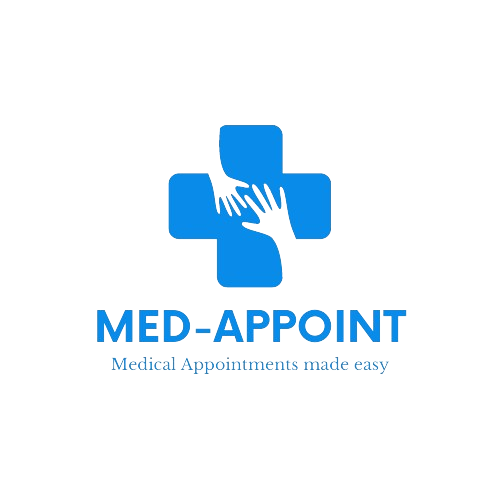
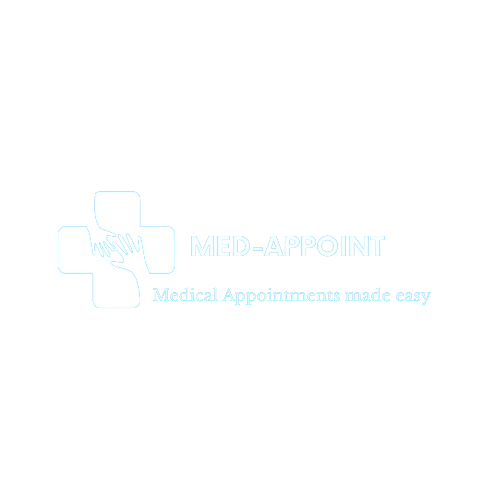
fix:medappoint from medicappoint

Changed region(s): [[0.18, 0.24, 0.87, 0.69], [0.21, 0.72, 0.78, 0.75], [0.18, 0.45, 0.3, 0.54]]

diff --git a/src/components/provider/Header.tsx b/src/components/provider/Header.tsx
@@ -19,7 +19,7 @@ function Header() {
   return (
     <div className="pb-[2rem] header-bg-opacity-provider bg-cover bg-center header h-max bg-black-opacity-10 space-y-3 flex flex-col max-md:w-screen">
       <div className="flex justify-between h-[50px]">
-        <Image src="/3.png" alt="mediappointlogo" height={50} width={100} />
+        <Image src="/4.png" alt="mediappointlogo" height={50} width={100} />
         <Button text="Join Now " handleScrollToView={handleJoinNowClick} />
       </div>
       <div className="w-full h-[12px] flex justify-center items-center">
@@ -53,7 +53,7 @@ function Header() {
         <div className="w-full  center flex flex-col justify-center items-center max-md:w-screen">
           <div className="w-full  max-md:text-2xl text-white text-balance text-center font-[700] pt-4 max-md:w-screen">
             <p className="sm:text-[64px]">Grow Your Practice with</p>
-            <p className="sm:text-[64px]">MedicAppoint</p>
+            <p className="sm:text-[64px]">Medappoint</p>
           </div>
           <div className="w-full  sm:text-[24px] text-center text-white max-md:w-screen">
             Join Our Network of Trusted Healthcare Providers
@@ -63,7 +63,7 @@ function Header() {
           <div className="w-full  flex justify-center items-center p-2">
             <button
               onClick={handleJoinNowClick}
-              className="w-[424px] h-[50px] font-semibold p-[15px] text-[16px] text-white flex justify-center items-center bg-[#098CE9] hover:bg-blue-500 rounded-[12px]"
+              className="w-[424px] h-[50px] max-md:w-[212px] font-semibold p-[15px] text-[16px] text-white flex justify-center items-center bg-[#098CE9] hover:bg-blue-500 rounded-[12px]"
             >
               Join the waitlist
             </button>
@@ -75,7 +75,7 @@ function Header() {
           What we do for you
         </div>
         <div className="w-full text-[24px] h-max font-[400] sm:text-[16px] max-md:text-sm text-wrap text-center max-md:w-[90%] p-1">
-          MedicAppoint makes it easier for patients to find, book and return to
+          Medappoint makes it easier for patients to find, book and return to
           your practice
         </div>
       </div>

diff --git a/src/components/Header.tsx b/src/components/Header.tsx
@@ -18,7 +18,7 @@ function Header() {
   return (
     <div className="pb-[2rem] header-bg-opacity bg-cover bg-center header bg-black-opacity-10 space-y-3 flex flex-col max-md:w-screen">
       <div className="flex justify-between h-[50px]">
-        <Image src="/3.png" alt="mediappointlogo" height={50} width={100} />
+        <Image src="/4.png" alt="mediappointlogo" height={150} width={150} />
         <Button text="Join Now " handleScrollToView={handleJoinNowClick} />
       </div>
       <div className="w-full h-[12px] flex justify-center items-center">
@@ -62,7 +62,7 @@ function Header() {
         <div className="w-full  flex justify-center items-center p-2">
           <button
             onClick={handleJoinNowClick}
-            className="w-[424px] h-[50px]  font-semibold p-[15px] text-[16px] text-white flex justify-center items-center bg-[#098CE9] hover:bg-blue-500 rounded-[12px]"
+            className="w-[424px] h-[50px] max-md:w-[212px] font-semibold p-[15px] text-[16px] text-white flex justify-center items-center bg-[#098CE9] hover:bg-blue-500 rounded-[12px]"
           >
             Join the waitlist
           </button>
